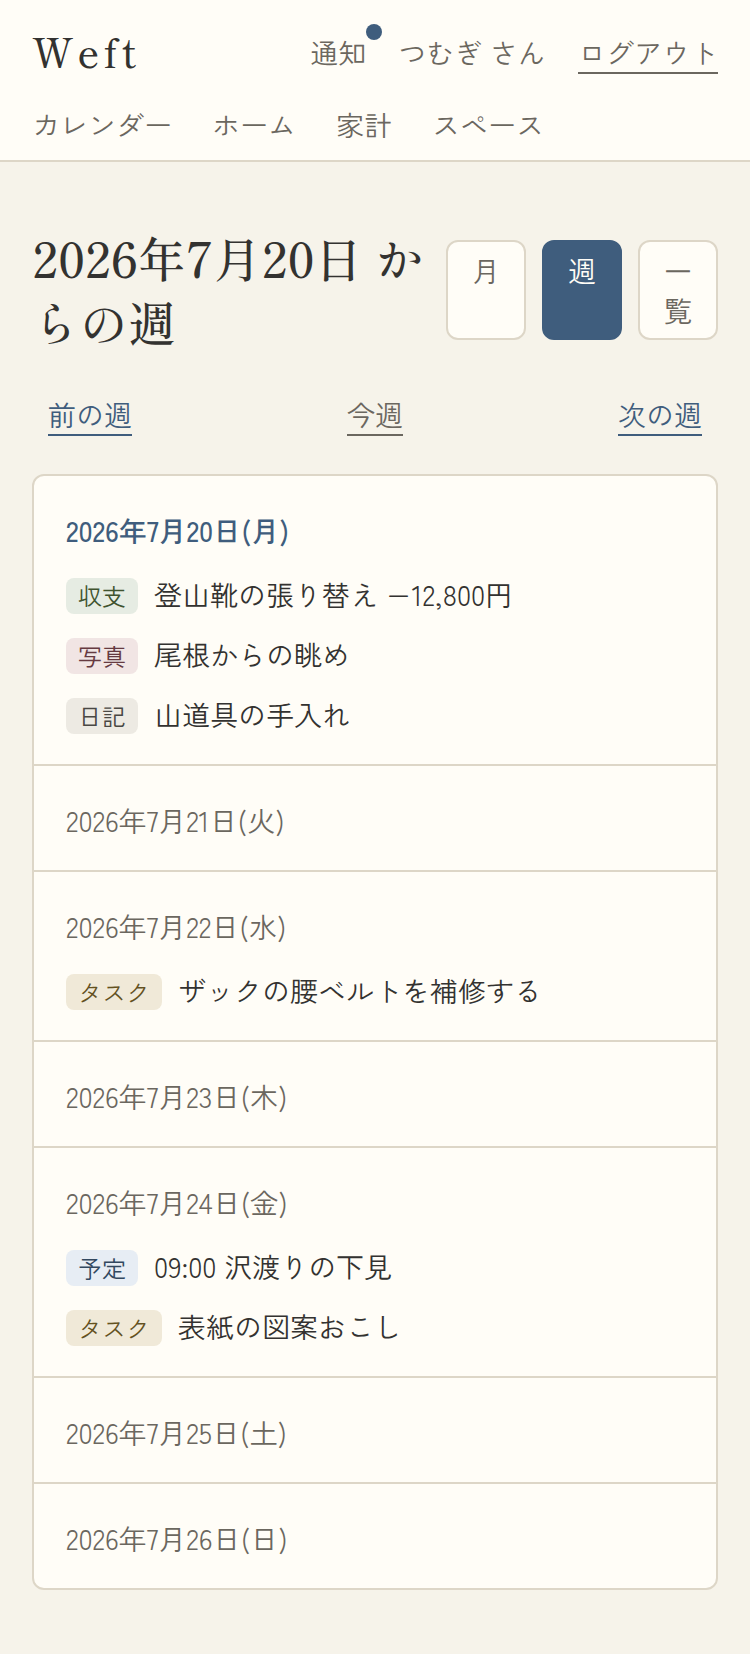
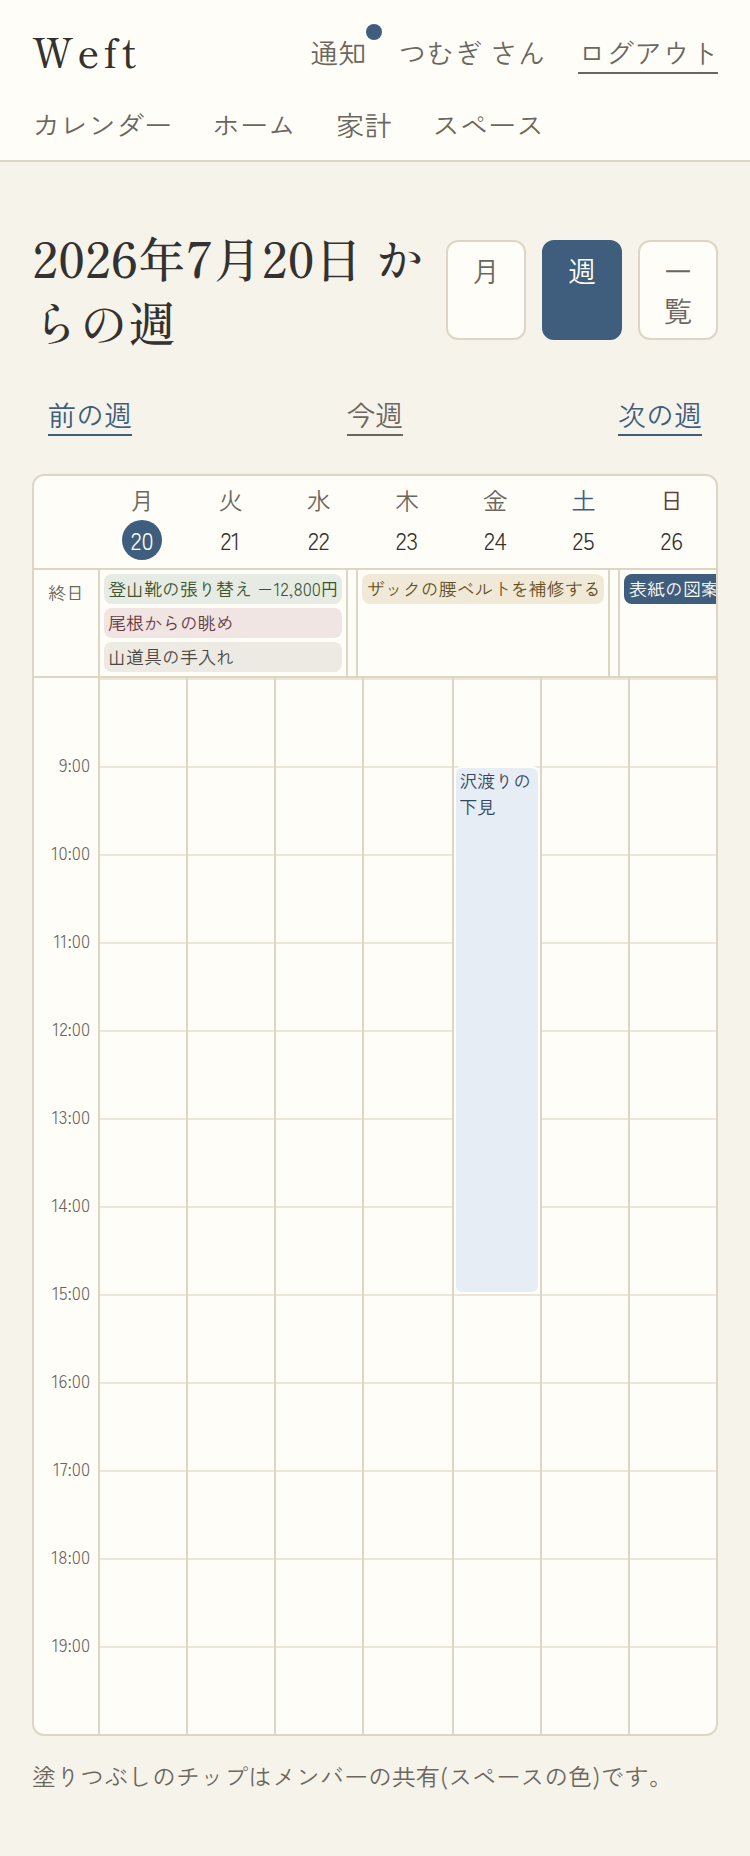
feat: 週表示を時間軸グリッドに刷新(Googleカレンダーの週表示相当)
- 曜日ヘッダー(今日は藍丸・土日色分け・タップでその日ページ)+ 終日行 + 時間グリッドの3段構成
- 時刻つき予定は時間幅どおりのブロック表示(最低30分ぶんの高さ、重なりは段ずらし)。
  表示時間帯は8〜20時を基本に、予定のある時間帯へ自動で広がる
- 終日行には時刻のない予定・日記・収支・タスク等をチップ表示(各日3件+「+N件」)
- チップ/ブロックの配色は月表示と統一(自分=種別の淡色、共有=スペース色)。
  共有アイテムはスペース内の詳細ページへリンク
- 月表示と週表示のレイヤー解決ロジックを fetchLayers として共通化
- 設計書(03-calendar.md)の週表示の記述とスクリーンショットを更新

検証: typecheck・lint・ユニットテスト全パス。375pxで表示確認

Claude-Session: https://claude.ai/code/session_01Fxswqyk1iLhGjxt4cnD98G

diff --git a/src/app/(app)/calendar/page.tsx b/src/app/(app)/calendar/page.tsx
@@ -13,7 +13,7 @@ import {
   weekOf,
   weekdayJa,
 } from "@/lib/date";
-import { itemLine } from "@/lib/items";
+import { eventPayload, itemLine } from "@/lib/items";
 import { TAG_COLORS, TypeBadge } from "@/components/type-badge";
 import { spaceColor } from "@/lib/spaces";
 import type { Item, ItemType } from "@/types/database";
@@ -91,31 +91,12 @@ async function fetchRange(first: string, last: string): Promise<Item[]> {
   return (data ?? []) as Item[];
 }
 
-// セル内チップの表示順: 予定(時刻つき)を先頭に、次いでタスク・日記・収支・写真・文書
-const CHIP_ORDER: ItemType[] = [
-  "event",
-  "task",
-  "diary",
-  "expense",
-  "photo",
-  "document",
-];
-
-async function MonthView({
-  month,
-  hidden,
-}: {
-  month: string;
-  hidden: Set<string>;
-}) {
-  const { first, last } = monthRange(month);
+// レイヤー情報(F-03-3): 各アイテムが「自分の記録(own)」か「どのスペース経由の共有か」を引く
+async function fetchLayers(items: Item[]) {
   const supabase = await createClient();
   const {
     data: { user },
   } = await supabase.auth.getUser();
-  const items = await fetchRange(first, last);
-
-  // レイヤー分け(F-03-3): 自分の記録=own、他人の記録=共有経由のスペース
   const otherIds = items
     .filter((i) => i.owner_id !== user?.id)
     .map((i) => i.id);
@@ -137,6 +118,29 @@ async function MonthView({
   const groups = myGroups ?? [];
   const layerOf = (item: Item): string =>
     item.owner_id === user?.id ? "own" : (spaceOfItem.get(item.id) ?? "own");
+  return { groups, layerOf };
+}
+
+// セル内チップの表示順: 予定(時刻つき)を先頭に、次いでタスク・日記・収支・写真・文書
+const CHIP_ORDER: ItemType[] = [
+  "event",
+  "task",
+  "diary",
+  "expense",
+  "photo",
+  "document",
+];
+
+async function MonthView({
+  month,
+  hidden,
+}: {
+  month: string;
+  hidden: Set<string>;
+}) {
+  const { first, last } = monthRange(month);
+  const items = await fetchRange(first, last);
+  const { groups, layerOf } = await fetchLayers(items);
 
   // Googleカレンダー風: 各日にアイテムのタイトルをチップで並べる。
   // 自分の記録=種別ごとの淡色チップ、メンバーの共有=スペース色の塗りチップ
@@ -322,15 +326,88 @@ async function MonthView({
   );
 }
 
+// "HH:MM" → 分。不正値は null
+function toMinutes(hhmm: string | undefined): number | null {
+  if (!hhmm || !/^\d{1,2}:\d{2}$/.test(hhmm)) return null;
+  const [h, m] = hhmm.split(":").map(Number);
+  if (h > 23 || m > 59) return null;
+  return h * 60 + m;
+}
+
+const HOUR_H = 44; // 時間グリッドの1時間の高さ(px)
+
 async function WeekView({ date }: { date: string }) {
   const days = weekOf(date);
   const items = await fetchRange(days[0], days[6]);
-  const byDate = new Map<string, Item[]>();
-  for (const item of items) {
-    if (!byDate.has(item.occurred_on)) byDate.set(item.occurred_on, []);
-    byDate.get(item.occurred_on)!.push(item);
-  }
+  const { groups, layerOf } = await fetchLayers(items);
+  const colorOfSpace = new Map(groups.map((g) => [g.id, spaceColor(g)]));
   const today = todayIso();
+
+  // 時刻つきの予定は時間グリッドへ、それ以外(終日予定・日記・収支等)は終日行へ
+  type TimedBlock = {
+    item: Item;
+    startMin: number;
+    endMin: number;
+    spaceColor?: string;
+  };
+  const timedByDate = new Map<string, TimedBlock[]>();
+  const alldayByDate = new Map<string, { item: Item; spaceColor?: string }[]>();
+  for (const item of items) {
+    const layer = layerOf(item);
+    const sc = layer === "own" ? undefined : colorOfSpace.get(layer);
+    const p = item.type === "event" ? eventPayload(item) : null;
+    const startMin = p && !p.all_day ? toMinutes(p.start_time) : null;
+    if (item.type === "event" && startMin !== null) {
+      const endMin = Math.max(
+        toMinutes(p?.end_time) ?? startMin + 60,
+        startMin + 30, // 最低30分ぶんの高さを確保する
+      );
+      if (!timedByDate.has(item.occurred_on))
+        timedByDate.set(item.occurred_on, []);
+      timedByDate.get(item.occurred_on)!.push({
+        item,
+        startMin,
+        endMin,
+        spaceColor: sc,
+      });
+    } else {
+      if (!alldayByDate.has(item.occurred_on))
+        alldayByDate.set(item.occurred_on, []);
+      alldayByDate.get(item.occurred_on)!.push({ item, spaceColor: sc });
+    }
+  }
+  for (const blocks of timedByDate.values())
+    blocks.sort((a, b) => a.startMin - b.startMin);
+
+  // 表示する時間帯: 予定を含む範囲 + 余白(既定は8時〜20時)
+  const allTimed = [...timedByDate.values()].flat();
+  const startHour = Math.min(
+    8,
+    ...allTimed.map((b) => Math.floor(b.startMin / 60)),
+  );
+  const endHour = Math.max(
+    20,
+    ...allTimed.map((b) => Math.ceil(b.endMin / 60)),
+  );
+  const hours = Array.from(
+    { length: endHour - startHour },
+    (_, i) => startHour + i,
+  );
+
+  // 共有アイテムはスペース内の詳細ページへ(RLS上そちらが正)
+  const detailHref = (item: Item) => {
+    const layer = layerOf(item);
+    return layer === "own"
+      ? `/items/${item.id}`
+      : `/spaces/${layer}/items/${item.id}`;
+  };
+  const chipStyle = (item: Item, sc?: string) =>
+    sc
+      ? { backgroundColor: sc, color: "var(--card)" }
+      : {
+          backgroundColor: TAG_COLORS[item.type].bg,
+          color: TAG_COLORS[item.type].fg,
+        };
 
   return (
     <div>
@@ -362,33 +439,133 @@ async function WeekView({ date }: { date: string }) {
         </Link>
       </div>
 
-      <ul className="mt-4 divide-y divide-keisen rounded-md border border-keisen bg-paper">
-        {days.map((d) => (
-          <li key={d} className="px-4 py-3">
+      <div className="mt-4 overflow-hidden rounded-md border border-keisen bg-paper">
+        {/* 曜日ヘッダー(タップでその日のページへ) */}
+        <div className="grid grid-cols-[2rem_repeat(7,1fr)] border-b border-keisen text-center sm:grid-cols-[2.5rem_repeat(7,1fr)]">
+          <div />
+          {days.map((d, i) => (
             <Link
+              key={d}
               href={`/days/${d}`}
-              className={`text-sm ${d === today ? "font-medium text-ai" : "text-usuzumi"}`}
+              className={`py-1 text-xs ${
+                i === 5 ? "text-ai" : i === 6 ? "" : "text-usuzumi"
+              }`}
+              style={i === 6 ? { color: "var(--tag-photo-fg)" } : undefined}
             >
-              {formatDateJa(d)}({weekdayJa(d)})
+              {weekdayJa(d)}
+              <span
+                className={`mx-auto mt-0.5 block h-5 w-5 leading-5 ${
+                  d === today ? "rounded-full bg-ai text-paper" : "text-sumi"
+                }`}
+              >
+                {Number(d.slice(8))}
+              </span>
             </Link>
-            {(byDate.get(d) ?? []).length > 0 && (
-              <ul className="mt-1 space-y-0.5">
-                {(byDate.get(d) ?? []).map((item) => (
-                  <li key={item.id}>
-                    <Link
-                      href={`/items/${item.id}`}
-                      className="text-sm hover:underline"
-                    >
-                      <TypeBadge type={item.type} className="mr-2" />
-                      {itemLine(item)}
-                    </Link>
-                  </li>
-                ))}
-              </ul>
-            )}
-          </li>
-        ))}
-      </ul>
+          ))}
+        </div>
+
+        {/* 終日行(時刻のない予定・日記・収支・タスク等) */}
+        <div className="grid grid-cols-[2rem_repeat(7,1fr)] border-b border-keisen sm:grid-cols-[2.5rem_repeat(7,1fr)]">
+          <div className="py-1 text-center text-[9px] text-usuzumi sm:text-[10px]">
+            終日
+          </div>
+          {days.map((d) => (
+            <div
+              key={d}
+              className="min-h-6 space-y-0.5 border-l border-keisen p-0.5"
+            >
+              {(alldayByDate.get(d) ?? []).slice(0, 3).map(({ item, spaceColor: sc }) => (
+                <Link
+                  key={item.id}
+                  href={detailHref(item)}
+                  title={itemLine(item)}
+                  className="block truncate rounded-sm px-0.5 text-[9px] leading-[15px] sm:px-1 sm:text-[10px] sm:leading-4"
+                  style={chipStyle(item, sc)}
+                >
+                  {itemLine(item)}
+                </Link>
+              ))}
+              {(alldayByDate.get(d) ?? []).length > 3 && (
+                <Link
+                  href={`/days/${d}`}
+                  className="block px-0.5 text-[9px] leading-[15px] text-usuzumi sm:text-[10px]"
+                >
+                  +{(alldayByDate.get(d) ?? []).length - 3}件
+                </Link>
+              )}
+            </div>
+          ))}
+        </div>
+
+        {/* 時間グリッド */}
+        <div className="grid grid-cols-[2rem_repeat(7,1fr)] sm:grid-cols-[2.5rem_repeat(7,1fr)]">
+          {/* 時刻の目盛り */}
+          <div className="relative" style={{ height: hours.length * HOUR_H }}>
+            {hours.map((h, i) => (
+              <span
+                key={h}
+                className="absolute right-1 -translate-y-1/2 text-[9px] text-usuzumi sm:text-[10px]"
+                style={{ top: i * HOUR_H }}
+              >
+                {i === 0 ? "" : `${h}:00`}
+              </span>
+            ))}
+          </div>
+          {days.map((d) => (
+            <div
+              key={d}
+              className="relative border-l border-keisen"
+              style={{ height: hours.length * HOUR_H }}
+            >
+              {/* 1時間ごとの罫線 */}
+              {hours.map((h, i) => (
+                <span
+                  key={h}
+                  className="absolute inset-x-0 border-t border-keisen/60"
+                  style={{ top: i * HOUR_H }}
+                />
+              ))}
+              {/* 予定ブロック */}
+              {(timedByDate.get(d) ?? []).map((b, bi) => {
+                const top = ((b.startMin - startHour * 60) / 60) * HOUR_H;
+                const height = ((b.endMin - b.startMin) / 60) * HOUR_H;
+                return (
+                  <Link
+                    key={b.item.id}
+                    href={detailHref(b.item)}
+                    title={itemLine(b.item)}
+                    className="absolute overflow-hidden rounded-sm border border-paper px-0.5 text-[9px] leading-[13px] sm:px-1 sm:text-[10px] sm:leading-4"
+                    style={{
+                      top,
+                      height,
+                      left: `${Math.min(bi, 2) * 10}%`,
+                      right: 0,
+                      zIndex: bi + 1,
+                      ...(b.spaceColor
+                        ? {
+                            backgroundColor: b.spaceColor,
+                            color: "var(--card)",
+                          }
+                        : {
+                            backgroundColor: "var(--tag-event-bg)",
+                            color: "var(--tag-event-fg)",
+                          }),
+                    }}
+                  >
+                    {b.item.title ?? "(無題)"}
+                  </Link>
+                );
+              })}
+            </div>
+          ))}
+        </div>
+      </div>
+
+      {groups.length > 0 && (
+        <p className="mt-3 text-xs text-usuzumi">
+          塗りつぶしのチップはメンバーの共有(スペースの色)です。
+        </p>
+      )}
     </div>
   );
 }

diff --git a/docs/design/screens/03-calendar.md b/docs/design/screens/03-calendar.md
@@ -38,9 +38,12 @@
 | No | 項目 | 内容・表示条件 |
 |---|---|---|
 | 1 | 見出し「M月D日 からの週」 | 週の月曜 |
-| 2 | まえの週 / 今週 / つぎの週 | 常時 |
-| 3 | 7日分のリスト | 各日: 日付リンク(今日は藍字)→その日ページ。配下にその日の記録(種別ラベル+一行表記)→詳細へ |
+| 2 | 前の週 / 今週 / 次の週 | 常時 |
+| 3 | 曜日ヘッダー | 曜日+日付。今日は藍丸白抜き。タップでその日ページへ。土=藍・日=蘇芳 |
+| 4 | 終日行 | 時刻のない予定・日記・収支・タスク等をチップで表示(各日最大3件+「+N件」)。チップ→詳細へ |
+| 5 | 時間グリッド | 時刻つき予定をブロック表示(高さ=時間幅、最低30分ぶん)。表示帯は8〜20時を基本に予定へ追随。ブロック→詳細へ |
 
+チップ/ブロックの色: 自分の記録=種別の淡色、メンバーの共有=スペース色の塗り(月表示と同じ)。
 一行表記: 予定=「HH:MM タイトル」(終日はタイトルのみ)/ 収支=「メモ −1,234円」/ その他=タイトルまたは本文冒頭。
 
 ## 3-3. 一覧表示